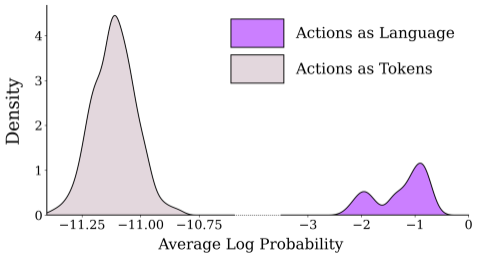
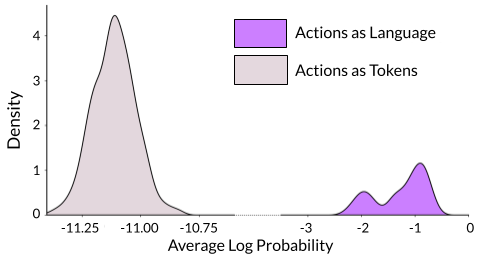
updating website after iclr

diff --git a/index.html b/index.html
@@ -280,9 +280,9 @@
                 <br>
                 <!-- <h2 class="title is-3" style="text-align: center;">TLDR</h2> -->
                 <p class="text-justify">
-                    <bold><b>TL;DR</b></bold>: We introduce <b>VLM2VLA</b>, a VLA model training paradigm that represents low-level robot actions as natural language to better align the robot fine-tuning data with the base VLM's representation space. 
-                    This alignment, combined with parameter-efficient fine-tuning, better preserves the VLM's foundational reasoning during VLA fine-tuning. 
-                    Through extensive experimentation, <b>VLM2VLA</b> enables strong VQA performance and zero-shot generalization to new scenarios.</br>
+                    We introduce <b>VLM2VLA</b>, a VLA model training paradigm that represents low-level robot actions in natural language to better align the robot fine-tuning data with the base VLM's representation space. 
+                    This alignment makes it possible to train VLAs solely with Low-Rank Adaptation (LoRA). 
+                    Through extensive experimentation, we show <b>VLM2VLA</b> yields a policy with strong VQA performance and zero-shot generalization to new scenarios.</br>
                 </p>
             </div>
         </div>
@@ -308,14 +308,13 @@
             <p style="text-align:center;">
             </p>
             <h2 class="title is-3" style="text-align: center;">Abstract</h2>
-                <!-- <p class="text-justify" style="text-align: center; margin-bottom: 1.5em;"> -->
-                <p class="text-justify">
-                    Fine-tuning vision-language models (VLMs) on robot teleoperation data to create vision-language-action (VLA) models is a promising paradigm for training generalist policies, but it suffers from a fundamental tradeoff: learning to produce actions often diminishes the VLM's foundational reasoning and multimodal understanding, which hinders generalization to novel scenarios, instruction following, and semantic understanding.
-                    We argue that this catastrophic forgetting is due to a distribution mismatch between the VLM's internet-scale pretraining corpus and the robotics fine-tuning data.
-                    Inspired by this observation, we introduce <b>VLM2VLA</b>: a VLA training paradigm whose core idea is to <i>represent low-level actions using natural language</i> by relabeling robot demonstration data. 
-                    This methodology better aligns the fine-tuning data to the base model's representation space, thereby mitigating the distribution mismatch while enabling effective robotic control. 
-                    As a result, the VLM can be fine-tuned on robot teleoperation data using a policy architecture that makes no modifications to the underlying VLM and without expensive co-training on internet-scale VLM datasets. 
-                    Through extensive Visual Question Answering (VQA) studies and real-world robotics experiments, we demonstrate that <b>VLM2VLA</b> preserves the VLM's core capabilities, enabling zero-shot generalization to novel tasks that require open-world semantic reasoning and multilingual instruction following.<br>
+                <p class="text-justify" style="text-align: center; margin-bottom: 1.5em;">
+                    Fine-tuning vision-language models (VLMs) on robot teleoperation data to create vision-language-action (VLA) models is a promising paradigm for training generalist policies, but it suffers from a fundamental tradeoff: learning to produce actions often diminishes the VLM's foundational reasoning and multimodal understanding, hindering generalization to novel scenarios, instruction following, and semantic understanding. 
+                    We argue that this catastrophic forgetting is due to a distribution mismatch between the VLM's internet-scale pretraining corpus and the robotics fine-tuning data. 
+                    Inspired by this observation, we introduce <b>VLM2VLA</b>: a VLA training paradigm that first resolves this mismatch at the data level by <i>representing low-level actions with natural language</i>. 
+                    This alignment makes it possible to train VLAs <i>solely with Low-Rank Adaptation (LoRA)</i>, thereby minimally modifying the VLM backbone and averting catastrophic forgetting. 
+                    As a result, the VLM can be fine-tuned on robot teleoperation data without fundamentally altering the underlying architecture and without expensive co-training on internet-scale VLM datasets. 
+                    Through extensive Visual Question Answering (VQA) studies and over 800 real-world robotics experiments, we demonstrate that <b>VLM2VLA</b> preserves the VLM's core capabilities, enabling zero-shot generalization to novel tasks that require open-world semantic reasoning and multilingual instruction following.<br>
                 </p>
             </div>
         </div>
@@ -365,7 +364,7 @@
                 <!-- The container div is no longer needed for sizing -->
                 <div>
                     <!-- === CHANGED HERE: Added an inline style to scale the image === -->
-                    <img src="img/action_probability_distribution_plot_2.png" class="img-fluid method-image" alt="Graph showing higher log probabilities for language-based actions.">
+                    <img src="img/logprobs_copy.png" class="img-fluid method-image" alt="Graph showing higher log probabilities for language-based actions.">
                 </div>
                 <p class="text-justify" style="margin-top: 2rem;"> <!-- Added margin-top to create space after the scaled image -->
                     <em><strong>Before fine-tuning</strong>, the base VLM (Gemma-3-12B-IT) assigns much higher probabilities to our natural language action descriptions than to standard, tokenized robot actions (least likely tokens). This shows our data is better aligned with the model's original knowledge.</em>
@@ -461,7 +460,7 @@
                         <h2 class="title is-3" style="text-align: center;">Real Robot Experiments</h2>
                         <!-- <p class="text-justify" style="text-align: center; max-width: 800px; margin: auto;"> -->
                         <p class="text-justify">
-                            We showcase our model's capabilities on numerous manipulation tasks, some requiring multilingual understanding, object generalization, and following complex, open-vocabulary instructions. We contrast our method to two state-of-the-art VLAs: OpenVLA and Embodied Chain of Thought (ECoT). Videos are shown below.
+                            We showcase our model's capabilities on numerous manipulation tasks, some requiring multilingual understanding, object generalization, and following complex, open-vocabulary instructions. We contrast our method to two state-of-the-art VLAs: OpenVLA and Embodied Chain of Thought (ECoT), as well as a token-based ablation of our method (VLMVLA-AT). Videos of VLM2VLA are shown below.
                         </p>
                     </div>
                 </div>
@@ -505,13 +504,13 @@
                     <!-- === CHANGED HERE === -->
                     <div class="col-md-10 col-lg-9">
                         <p style="text-align:center;">
-                            <img src="img/model_comparison_generalization_types_OOD.png" width="100%" alt="Graph comparing VLM2VLA performance on in-distribution and out-of-distribution tasks against OpenVLA and ECoT.">
+                            <img src="img/model_comparison_generalization_types_OOD_ablation.png" width="100%" alt="Graph comparing VLM2VLA performance on in-distribution and out-of-distribution tasks against baselines and ablations.">
                         </p>
                         <br>
                         <p class="text-justify">
                             Comparative evaluation of VLA performance on in-distribution (ID) and out-of-distribution (OOD) robotic
                             manipulation tasks. <strong>VLM2VLA</strong> maintains high success rates on OOD tasks, highlighting its superior generalization
-                            capabilities. Embodied Chain of Thought (ECoT) and <strong>VLM2VLA</strong> were fine-tuned on the Bridgev2 dataset, whereas OpenVLA
+                            capabilities. Embodied Chain of Thought (ECoT), <strong>VLM2VLA</strong>, and VLM2VLA-AT were fine-tuned on the Bridgev2 dataset, whereas OpenVLA
                             was fine-tuned on the Open-X-Embodiment dataset.
                         </p>
                     </div>
@@ -898,5 +897,7 @@
           </div>
 
     </div> -->
+
+        
 </body>
 </html>
